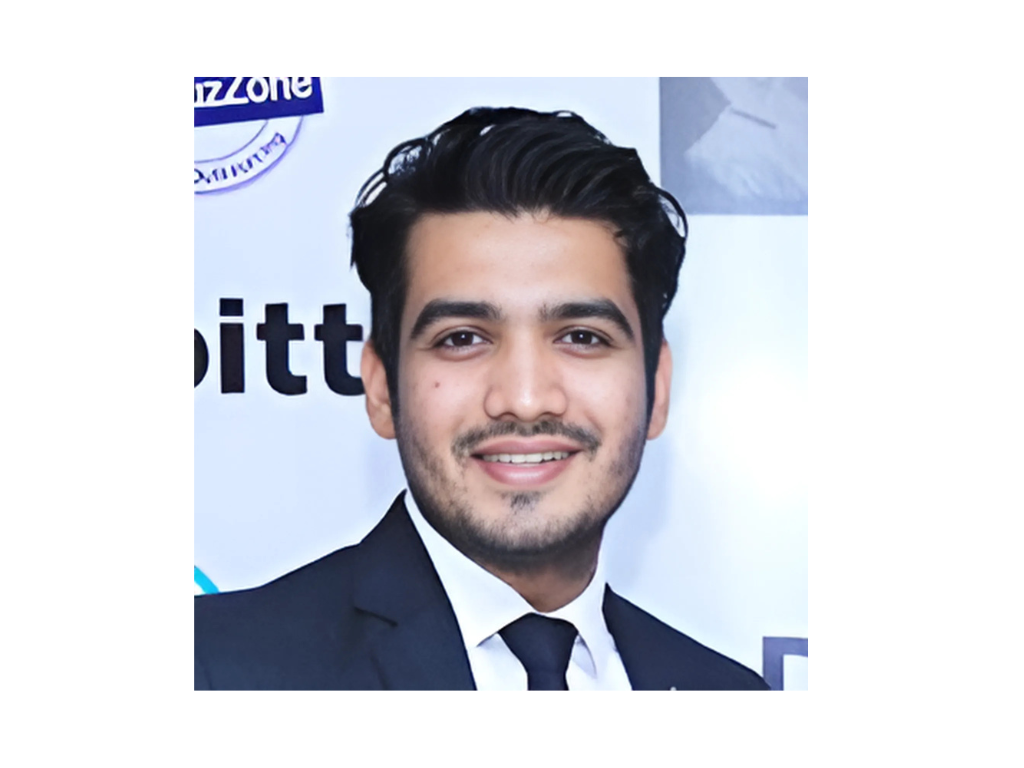
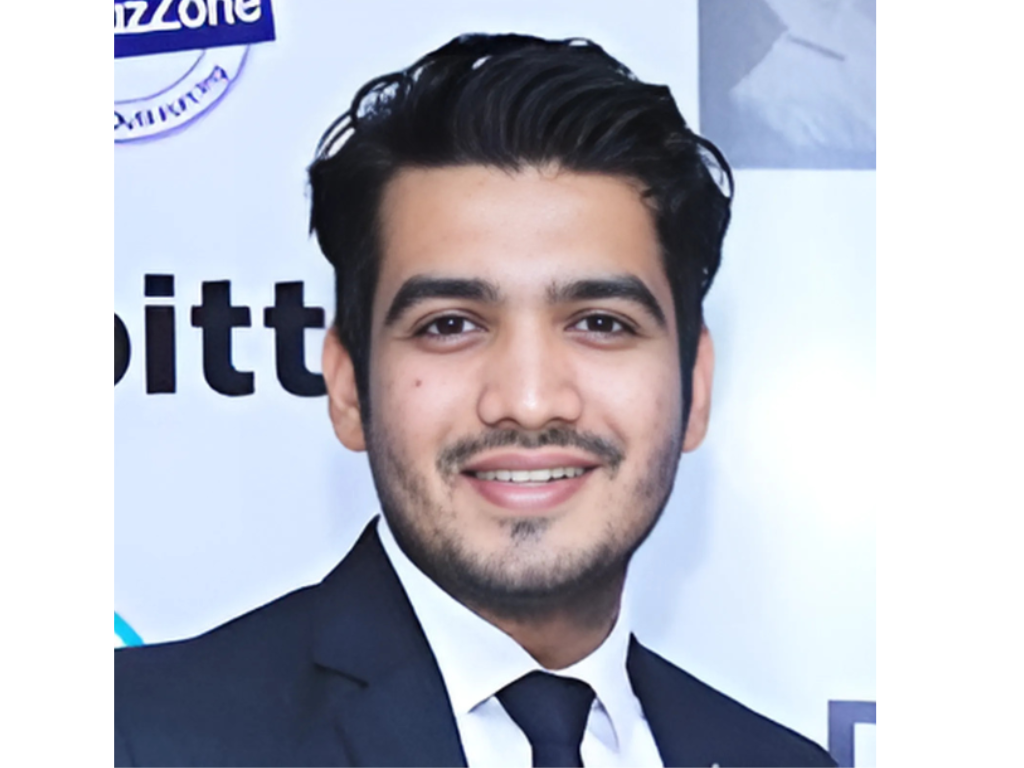
feat: refine home and about page layouts, add period simulation program, adjust footer links, and update assets

diff --git a/src/routes/about.tsx b/src/routes/about.tsx
@@ -11,7 +11,7 @@ import swapnil from "@/assets/team/swapnil-new.jpeg";
 import mukesh from "@/assets/team/mukesh.png";
 import anisha from "@/assets/team/anisha-nair.jpeg";
 import aboutHero from "@/assets/about-hero.jpg";
-import storyWorkshop from "@/assets/about-story-workshop.jpg";
+import storyWorkshop from "@/assets/about-how-it-started.jpg";
 
 const AMODINI_URL = "https://amodinifoundation.org/";
 
@@ -86,33 +86,63 @@ const team = [
 const milestones = [
   {
     year: "2016",
-    title: "Foundation Established",
-    body: "Safe n Happy Periods began as a movement for shame-free, pain-free periods.",
+    title: "Safe n Happy Periods - Established",
+    body: "",
   },
   {
     year: "2016",
-    title: "First School Program",
-    body: "Our first NMMC school outreach opened menstrual health conversations in municipal schools.",
+    title: "First Program - Govt. Project",
+    body: "Period sessions in Navi Mumbai Municipal Corporation (NMMC) Schools 35 + Schools and 15 Ward Offices",
+  },
+  {
+    year: "2017",
+    title: "Rural Outreach with Mijwan",
+    body: "Shabana Azmi Ji recognized and appreciated our work at Mijwan and nationwide at the Menstrual Conclave Delhi.",
   },
   {
     year: "2018",
-    title: "Recognition & Reach",
-    body: "Shabana Azmi Ji recognized the work at the Menstrual Conclave.",
+    title: "Recognition by Shabana Ji",
+    body: "Workshops at Mijwan Welfare, an NGO by Shabana Azmi Ji in Phoolpur, UP.",
   },
   {
-    year: "2021",
+    year: "2018",
+    title: "Workshop at IIT Mumbai",
+    body: "SNHP was invited at IIT campus to talk about the menstrual landscape of India.",
+  },
+  {
+    year: "2018",
+    title: "CSR Project with Pepsi at Ghana-Africa",
+    body: "2 schools with over 1000+ girls and boys at schools in Accra, Ghana and Nairobi, Kenya. Later with other corporates like Wipro, Shoppers Stop, Rave Technologies, etc.",
+  },
+  {
+    year: "2019",
+    title: "Working with Sex Workers",
+    body: "Working with trafficked women in red light areas of Kamathipura and Grant Road together with Oasis International and Rave Technologies.",
+  },
+  {
+    year: "2020",
+    title: "International Panel Discussion",
+    body: "SNHP was invited to speak at a panel discussion with speakers from all over the world.",
+  },
+  {
+    year: "2020",
     title: "Pandora's Box: Lifting the Lid on Menstruation",
-    body: "Featured in Pandora's Box, a 75-minute documentary on period poverty and stigma.",
+    body: "Featured in Pandora's Box, a 75-minute documentary made by an all-women crew on period poverty and stigma.",
+  },
+  {
+    year: "2020",
+    title: "Collab with Radio City",
+    body: "Conversations and pad donations in villages in Rajasthan.",
   },
   {
     year: "2022",
-    title: "Corporate Partnerships",
-    body: "Expanded CSR and workplace partnerships, including PepsiCo Ghana.",
+    title: "Awarded by NMMC on Women's Day",
+    body: "SNHP's contributions were appreciated by NMMC.",
   },
   {
-    year: "2024",
-    title: "Specialized Programs",
-    body: "Scaled yoga and train-the-trainer programs for wider community education.",
+    year: "2023",
+    title: "Corporate Workshops",
+    body: "Creating period-friendly workplaces with Future Generali.",
   },
 ];
 
@@ -170,23 +200,13 @@ function About() {
               </h2>
               <div className="mt-8 space-y-6 text-lg leading-relaxed text-muted-foreground">
                 <p>
-                  Safe n Happy Periods began in February 2016, when Sarika Gupta set out to
-                  challenge the silence and stigma surrounding menstruation. What started as a small
-                  initiative from a living room soon grew into a powerful movement dedicated to
-                  making menstrual health education accessible, conversations more open, and hygiene
-                  resources available to all.
+                  Safe N' Happy Periods (SNHP) is a flagship project of AMODINI Foundation (a non-profit in Mumbai), which is a donor & volunteer-supported initiative
                 </p>
                 <p>
-                  Built on empathy, dignity, and the belief that no one should feel shame for a
-                  natural biological process, SNHP works to create a world where periods are
-                  understood, supported, and normalized. Through awareness workshops, community
-                  outreach, campaigns, and on-ground initiatives, Safe n Happy Periods empowers
-                  individuals with knowledge, confidence, and access to menstrual care.
+                  It began in February 2016, when Sarika Gupta set out to challenge the silence and stigma surrounding menstruation. What started as a small initiative in a living room soon grew into a powerful worldwide movement dedicated to making menstrual health education accessible to all. SNHP works to create a world where periods are understood, supported, and normalized. Through awareness workshops, community outreach, campaigns, and on-ground initiatives, Safe n Happy Periods empowers individuals with knowledge, confidence, and access to menstrual care.
                 </p>
                 <p>
-                  From colleges and communities to collaborative campaigns and resource distribution
-                  drives, SNHP continues to break taboos and spark conversations that create lasting
-                  social change.
+                  From colleges and communities to collaborative campaigns and resource distribution drives, SNHP continues to break taboos and spark conversations that create lasting social change.
                 </p>
                 <blockquote className="border-l-4 border-primary pl-5 font-semibold text-foreground">
                   "We believe that open, shame-free conversations about menstruation are the first
@@ -206,7 +226,7 @@ function About() {
             {[
               {
                 title: "Mission",
-                body: "To eliminate period poverty and stigma through comprehensive education, accessible menstrual products, and inclusive conversations that normalize menstruation as a natural biological process.",
+                body: "To eliminate period poverty and stigma through comprehensive education, accessible menstrual products, and inclusive conversations that normalize menstruation.",
               },
               {
                 title: "Vision",
@@ -241,18 +261,13 @@ function About() {
           <a href={AMODINI_URL} target="_blank" rel="noreferrer" className="font-semibold text-primary hover:underline">
             Amodini Foundation
           </a>{" "}
-          was born from a vision to create a society where girls and women live with dignity, free from taboos and limitations. "Amodini" means
-          joyful girl or woman, and that lies at the heart of all we do.
+          breaks taboos, spreads awareness, and builds confidence through impactful programs in Menstrual Health & Hygiene (MHH) and POSH (Prevention of Sexual Harassment).
         </p>
         <p>
-          What began as a passionate initiative to break menstrual health taboos has grown into a
-          multifaceted organization addressing pressing issues of menstrual health and POSH
-          awareness, critical areas that impact women's confidence, safety, and empowerment.
+          "Amodini" means joyful girl or woman, and that lies at the heart of all we do. What began as a passionate initiative to break menstrual health taboos has grown into an organization addressing critical areas that impact women's confidence, safety, and empowerment. 
         </p>
         <p>
-          Today, we are proud to have reached thousands of individuals across schools, colleges,
-          communities, and workplaces, creating spaces for open dialogue, education, and
-          transformative change.
+          Today, we are proud to have reached thousands of individuals across schools, colleges, communities, and workplaces, creating spaces for open dialogue, education, and transformative change.
         </p>
       </Section>
 
@@ -281,7 +296,10 @@ function About() {
                     />
                   ) : (
                     <div className="flex h-full w-full items-center justify-center bg-primary/15 font-display text-6xl text-primary">
-                      {m.initials}
+                      {m.name
+                        .split(" ")
+                        .map((word) => word[0])
+                        .join("")}
                     </div>
                   )}
                 </div>
@@ -305,15 +323,15 @@ function About() {
         </div>
       </section>
 
-      <section id="milestones" className="py-14">
+      <section id="milestones" className="py-8 md:py-10">
         <div className="mx-auto max-w-7xl px-4 sm:px-6 lg:px-8">
           <span className="text-xs uppercase tracking-[0.3em] text-primary">Milestones</span>
-          <h2 className="mt-3 font-display text-4xl uppercase lg:text-5xl">
+          <h2 className="mt-2 font-display text-3xl uppercase lg:text-4xl">
             From small beginnings to bigger change.
           </h2>
-          <div className="relative mt-12">
-            <div className="absolute bottom-6 left-2 top-2 w-px bg-primary/30 lg:left-1/2 lg:-translate-x-1/2" />
-            <div className="space-y-8 lg:space-y-0">
+          <div className="relative mt-6">
+            <div className="absolute bottom-3 left-1.5 top-1.5 w-px bg-primary/30 lg:left-1/2 lg:-translate-x-1/2" />
+            <div className="space-y-4 lg:space-y-5">
               {milestones.map((m, i) => (
                 <motion.div
                   key={m.title}
@@ -321,23 +339,25 @@ function About() {
                   whileInView={{ opacity: 1, y: 0 }}
                   viewport={{ once: true }}
                   transition={{ delay: i * 0.08 }}
-                  className={`relative grid grid-cols-1 gap-4 pl-9 lg:grid-cols-2 lg:gap-10 lg:pl-0 ${
-                    i % 2 === 0 ? "" : "lg:[&>div]:col-start-2"
-                  }`}
+                  className="relative grid grid-cols-1 gap-2 pl-7 lg:grid-cols-2 lg:gap-3 lg:pl-0"
                 >
-                  <div className="relative py-1">
-                    <span
-                      className={`absolute top-2 h-4 w-4 rounded-full border-4 border-background bg-primary lg:top-1/2 lg:-translate-y-1/2 ${
-                        i % 2 === 0
-                          ? "-left-[2.1rem] lg:-right-[2.45rem] lg:left-auto"
-                          : "-left-[2.1rem] lg:-left-[2.55rem]"
-                      }`}
-                    />
-                    <p className="font-display text-3xl text-primary">{m.year}</p>
-                    <h3 className="mt-3 font-display text-3xl uppercase text-foreground">
+                  <span className="absolute left-0 top-1.5 h-3 w-3 rounded-full border-[3px] border-background bg-primary lg:left-1/2 lg:-translate-x-1/2" />
+                  <div
+                    className={`lg:max-w-[22rem] ${
+                      i % 2 === 0
+                        ? "lg:ml-auto lg:pr-4 lg:text-right"
+                        : "lg:col-start-2 lg:pl-4"
+                    }`}
+                  >
+                    <p className="font-display text-xl text-primary">{m.year}</p>
+                    <h3 className="mt-1 font-display text-xl uppercase leading-none text-foreground">
                       {m.title}
                     </h3>
-                    <p className="mt-3 leading-relaxed text-muted-foreground">{m.body}</p>
+                    {m.body && (
+                      <p className="mt-1 whitespace-pre-line text-xs leading-snug text-muted-foreground">
+                        {m.body}
+                      </p>
+                    )}
                   </div>
                 </motion.div>
               ))}

diff --git a/src/routes/index.tsx b/src/routes/index.tsx
@@ -27,13 +27,14 @@ const programs = [
   { icon: GraduationCap, title: "Awareness Workshops", desc: "Menstrual health & hygiene sessions for schools, colleges, and rural communities.", to: "/programmes/schools" },
   { icon: Flower2, title: "Yoga Sessions", desc: "Movement, breathing, and relaxation practices for menstrual wellness.", to: "/programmes/yoga" },
   { icon: Gift, title: "Pad Donation", desc: "Sanitary product drives reaching the most underprivileged communities.", to: "/donate" },
+  { icon: Sparkles, title: "Perios Simulation", desc: "SNHP conducts period simulation workshops for young men in colleges and workplaces", to: "/programmes" },
 ];
 
 const stats = [
   { num: "250+", label: "Workshops" },
   { num: "25,000+", label: "Beneficiaries Reached" },
   { num: "60+", label: "Schools & Colleges" },
-  { num: "100,000+", label: "Sanitary Pads" },
+  { num: "100,000+", label: "Sanitary Pads Donated" },
 ];
 
 const homeVideoId = "fki-a5Vj5M8";
@@ -50,7 +51,7 @@ function Home() {
         <div className="relative mx-auto grid max-w-7xl grid-cols-1 items-center gap-8 px-4 pt-6 pb-10 sm:px-6 lg:grid-cols-12 lg:px-8 lg:pt-8 lg:pb-14">
           <motion.div className="min-w-0 lg:col-span-5">
             <span className="inline-flex items-center gap-2 text-xs uppercase tracking-[0.3em] text-coral mb-6">
-              <Sparkles size={14} /> Since 2014
+              <Sparkles size={14} /> Since 2016
             </span>
             <h1 className="font-display text-4xl sm:text-6xl lg:text-[6.5rem] leading-[0.88] uppercase">
               <span className="whitespace-nowrap">Shame-Free.</span><br />
@@ -65,7 +66,7 @@ function Home() {
                 to="/donate"
                 className="inline-flex items-center gap-2 bg-coral text-primary-foreground px-7 py-4 rounded-full font-semibold hover:scale-105 transition shadow-2xl shadow-coral/40"
               >
-                Make a donation <ArrowRight size={18} />
+                Donate <ArrowRight size={18} />
               </Link>
               <Link
                 to="/programmes"
@@ -116,7 +117,7 @@ function Home() {
               Why is something so natural still surrounded by silence?
             </p>
             <p className="mt-6 text-muted-foreground leading-relaxed">
-              In India, <strong>71% of girls</strong> learn about menstruation only after experiencing their first period. While awareness around menstrual products is growing, millions still struggle with limited access, misinformation, and lack of support especially in rural communities. Period stigma continues to impact education, confidence, health, and dignity, making menstrual well-being one of the most overlooked aspects of everyday life.
+              In India, <strong>71% of girls</strong> learn about menstruation only after attaining MENARCHE. While awareness around menstrual products is growing, millions still struggle with limited access, misinformation, and lack of support especially in rural communities. Period stigma continues to impact education, confidence, health, and dignity, making menstrual well-being one of the most overlooked aspects of everyday life.
             </p>
             <Link
               to="/about"
@@ -135,15 +136,13 @@ function Home() {
             <div>
               <span className="text-xs uppercase tracking-[0.3em] text-coral">What we do</span>
               <h2 className="font-display text-5xl lg:text-6xl uppercase mt-3">
-                Action across <span className="text-coral">three fronts.</span>
+                Action across <span className="text-coral">four fronts.</span>
               </h2>
             </div>
-            <Link to="/programmes" className="text-secondary-foreground/80 hover:text-primary inline-flex items-center gap-2">
-              Explore all programs <ArrowRight size={18} />
-            </Link>
+            
           </div>
 
-          <div className="grid grid-cols-1 gap-6 sm:grid-cols-2 lg:grid-cols-3">
+          <div className="grid grid-cols-1 gap-6 sm:grid-cols-2 lg:grid-cols-4">
             {programs.map((p, i) => (
               <motion.div
                 key={p.title}
@@ -177,7 +176,7 @@ function Home() {
               Pandora's Box.
             </h2>
             <p className="mt-5 text-muted-foreground leading-relaxed">
-              In 2021, Safe n Happy Periods was featured in Pandora's Box: Lifting the Lid on Menstruation, a powerful 75-minute documentary highlighting the global crisis of period poverty and menstrual stigma. The documentary shed light on the urgent need for awareness, accessibility, and open conversations around menstruation, while showcasing SNHP's efforts toward creating a more informed and stigma-free society.
+              In 2021, Safe n Happy Periods was featured in Pandora's Box: Lifting the Lid on Menstruation (change red colour), a powerful 75-minute documentary highlighting the global crisis of period poverty and menstrual stigma. Made by all women crew, this showcased SNHP's efforts toward creating a more informed and stigma-free society.
             </p>
           </div>
           <div className="min-w-0 lg:col-span-8">

diff --git a/src/components/site/Footer.tsx b/src/components/site/Footer.tsx
@@ -1,5 +1,5 @@
 import { Link } from "@tanstack/react-router";
-import { Facebook, Globe, Instagram, Linkedin, Mail, MapPin, Phone } from "lucide-react";
+import { Facebook, Instagram, Linkedin, Mail, MapPin, Phone } from "lucide-react";
 
 import logo from "@/assets/logo-main.svg";
 
@@ -78,12 +78,6 @@ export function Footer() {
               </a>
             </li>
             <li className="flex items-start gap-2">
-              <Globe size={14} className="mt-0.5 shrink-0 text-coral" />
-              <a href="https://www.safenhappyperiods.org" className="hover:text-coral">
-                www.safenhappyperiods.org
-              </a>
-            </li>
-            <li className="flex items-start gap-2">
               <Mail size={14} className="mt-0.5 shrink-0 text-coral" />
               <a href="mailto:connect@safenhappyperiods.org" className="hover:text-coral">
                 connect@safenhappyperiods.org
@@ -114,33 +108,28 @@ export function Footer() {
               Join
             </button>
           </div>
-          <div className="mt-3 flex flex-wrap gap-x-4 gap-y-1 text-xs text-muted-foreground dark:text-cream/80">
-            <a
-              href="https://amodinifoundation.org/privacy.html"
-              className="hover:text-coral"
-              target="_blank"
-              rel="noreferrer"
-            >
-              Privacy Policy
-            </a>
-            <a
-              href="https://amodinifoundation.org/terms.html"
-              className="hover:text-coral"
-              target="_blank"
-              rel="noreferrer"
-            >
-              Terms & Conditions
-            </a>
-          </div>
         </div>
       </div>
 
       <div className="border-t border-border dark:border-white/10">
-        <div className="mx-auto flex max-w-7xl flex-col items-center justify-between gap-2 px-4 py-3 text-[11px] text-muted-foreground dark:text-cream/60 sm:flex-row sm:px-6 lg:px-8">
+        <div className="mx-auto flex max-w-7xl flex-wrap items-center gap-x-4 gap-y-1 px-4 py-3 text-[11px] text-muted-foreground dark:text-cream/60 sm:px-6 lg:px-8">
           <p>&copy; {new Date().getFullYear()} Safe n' Happy Periods. All rights reserved.</p>
-          <Link to="/donate" className="hover:text-coral">
-            Support the mission
-          </Link>
+          <a
+            href="https://amodinifoundation.org/privacy.html"
+            className="hover:text-coral"
+            target="_blank"
+            rel="noreferrer"
+          >
+            Privacy Policy
+          </a>
+          <a
+            href="https://amodinifoundation.org/terms.html"
+            className="hover:text-coral"
+            target="_blank"
+            rel="noreferrer"
+          >
+            Terms & Conditions
+          </a>
         </div>
       </div>
     </footer>

diff --git a/src/components/site/nav-config.ts b/src/components/site/nav-config.ts
@@ -6,7 +6,7 @@ export const NAV: NavItem[] = [
   {
     label: "About",
     children: [
-      { to: "/about#story", label: "The Story", desc: "How SNHP began" },
+      { to: "/about", label: "The Story", desc: "Who we are" },
       { to: "/about#mission", label: "Mission & Vision", desc: "What drives us" },
       { to: "/about#amodini", label: "Amodini Foundation", desc: "Our parent org" },
       { to: "/about#team", label: "Our Team", desc: "The humans behind it" },
